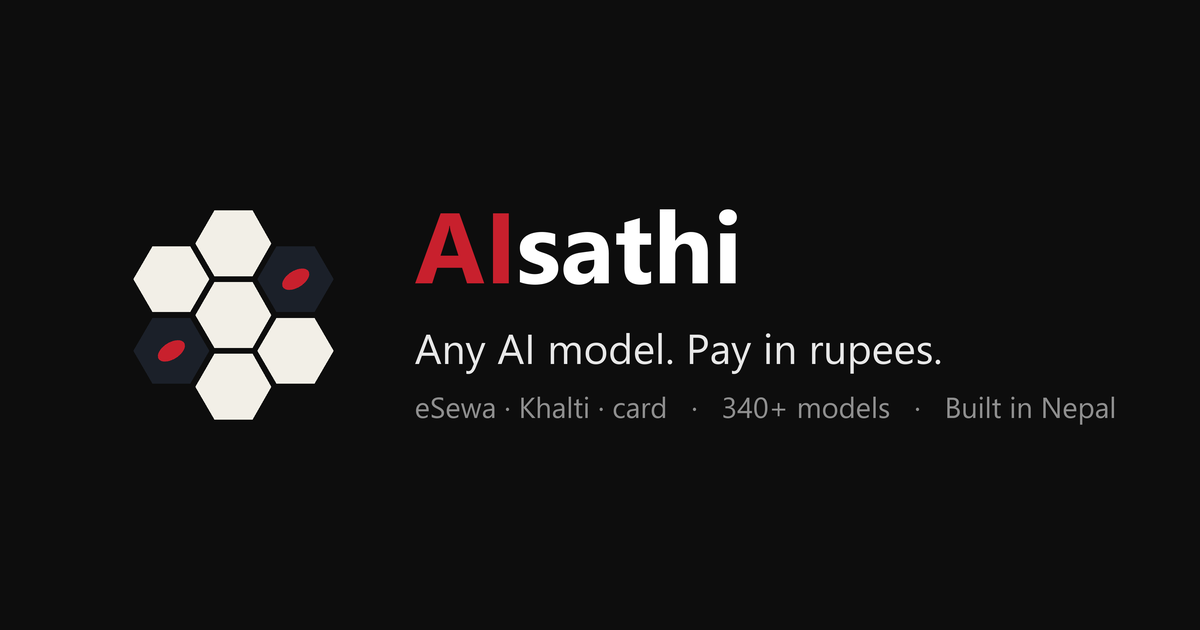
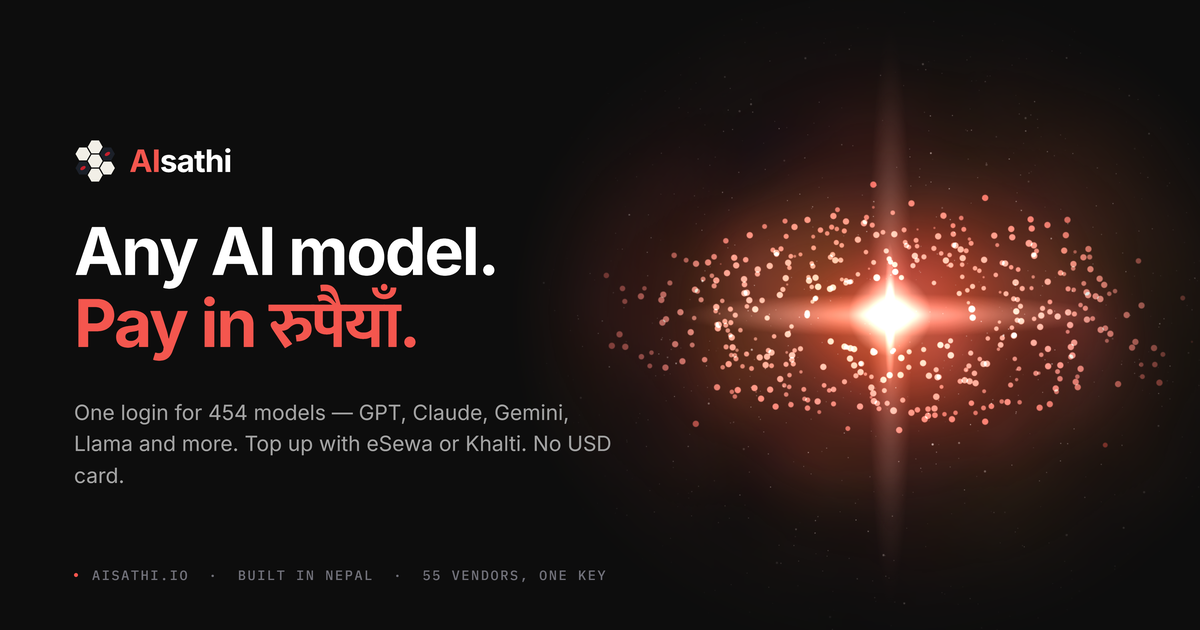
feat(brand): new share card, built from the catalogue
public/og.png was cut before the coral rebrand and before the galaxy — it
is what WhatsApp, Viber and Facebook show for every link anyone posts, and
for a first-time reader it is the whole first impression. It no longer
looked like the site it links to.

The replacement is built rather than drawn: the galaxy is the same
construction as HeroGalaxy, and all 454 stars are placed by a real price
from the catalogue snapshot. That is the only reason the card is allowed
to say "454 models" — the number and the picture come from one source.

Generator committed alongside it. A share card nobody can regenerate is a
card whose model count silently goes stale and cannot be corrected, so
scripts/og-card holds the renderer, the snapshot, and a README saying
plainly that the count is baked in and has to be refreshed.

The render is seeded, so one snapshot always produces the same image; a
card that reshuffles every build cannot be reviewed.

Kept full-colour at 281 KB rather than quantised to 110 KB — the glow
bands visibly at 256 colours, and dithering to hide it came out at 384 KB,
larger than the original. Nothing on the site loads this file; only link
scrapers do.

Higgsfield was the obvious tool and has 0 credits on a free plan, so this
is drawn from our own data instead — which is the better artwork anyway,
since it is a picture OF the product rather than a picture about it.

diff --git a/scripts/og-card/card.js b/scripts/og-card/card.js
@@ -1,0 +1,95 @@
+/* The share card's galaxy: the same construction as components/HeroGalaxy.tsx,
+   drawn once into a still. Seeded so the card is reproducible — a share image
+   that shuffles every time it is regenerated cannot be diffed or approved. */
+(function () {
+  var seed = 20260925;
+  function rnd() { seed = (seed * 1664525 + 1013904223) % 4294967296; return seed / 4294967296; }
+
+  var cv = document.getElementById('g'), ctx = cv.getContext('2d');
+  var W = cv.width, H = cv.height, CX = W / 2, CY = H / 2;
+  var HUES = [8, 352, 20, 340], COOL = [255, 233, 226], HOT = [244, 86, 78];
+  var D = Math.ceil(Math.hypot(W, H)), NX = CX - D / 2, NY = CY - D / 2;
+
+  function layer(w, h) { var c = document.createElement('canvas'); c.width = w; c.height = h; return c; }
+
+  var neb = layer(D, D), nx = neb.getContext('2d');
+  nx.globalCompositeOperation = 'lighter';
+  for (var arm = 0; arm < 3; arm++) {
+    var off = (arm / 3) * Math.PI * 2;
+    for (var i = 0; i < 46; i++) {
+      var a = off + i * 0.19 + rnd() * 0.06, r = 26 + i * (H / 68);
+      var px = D / 2 + Math.cos(a) * r * 1.62 + (rnd() - 0.5) * 42;
+      var py = D / 2 + Math.sin(a) * r * 0.74 + (rnd() - 0.5) * 24;
+      var rad = Math.max((H / 5.4) * (0.5 + rnd()) - i * 0.22, 8);
+      var hue = HUES[(arm + (i % 2)) % 4] + (rnd() * 18 - 9);
+      var al = 0.085 * (1 - i / 60) + 0.012;
+      var gr = nx.createRadialGradient(px, py, 0, px, py, rad);
+      gr.addColorStop(0, 'hsla(' + hue + ',88%,66%,' + al + ')');
+      gr.addColorStop(0.55, 'hsla(' + (hue + 12) + ',85%,52%,' + al * 0.45 + ')');
+      gr.addColorStop(1, 'hsla(' + hue + ',80%,40%,0)');
+      nx.fillStyle = gr; nx.beginPath(); nx.arc(px, py, rad, 0, 7); nx.fill();
+    }
+  }
+  var blur = layer(D, D), bx = blur.getContext('2d');
+  bx.filter = 'blur(16px)'; bx.drawImage(neb, 0, 0);
+
+  var fld = layer(W, H), fx = fld.getContext('2d');
+  fx.fillStyle = 'rgb(255,233,226)';
+  for (var k = 0; k < 1400; k++) {
+    var fxp = rnd() * W, fyp = rnd() * H;
+    var d = Math.hypot((fxp - CX) / (W * 0.5), (fyp - CY) / (H * 0.5));
+    if (rnd() < d * 0.45) continue;
+    fx.globalAlpha = 0.18 + rnd() * 0.75;
+    var fr = rnd() < 0.9 ? rnd() * 0.8 + 0.25 : rnd() * 1.5 + 0.7;
+    fx.beginPath(); fx.arc(fxp, fyp, fr, 0, 7); fx.fill();
+  }
+
+  // Real models, placed by real price — the same mapping the site uses.
+  var prices = DATA.m.map(function (m) { return m[2]; }).filter(function (v) { return v > 0; });
+  var lo = Math.log(Math.min.apply(null, prices)), hi = Math.log(Math.max.apply(null, prices));
+  var cl = Math.log(4096), ch = Math.log(2000000);
+  function norm(v, a, b) { return Math.max(0, Math.min(1, (Math.log(Math.max(v, 1)) - a) / (b - a))); }
+  var rMax = Math.min((W / 2) * 0.94 / 1.6, (H / 2) * 0.94 / 0.73);
+  var reach = Math.max(rMax - H * 0.07, H * 0.12);
+
+  ctx.clearRect(0, 0, W, H);
+  ctx.save(); ctx.globalCompositeOperation = 'lighter';
+  ctx.globalAlpha = 0.72; ctx.drawImage(blur, NX, NY); ctx.restore();
+  ctx.globalAlpha = 0.85; ctx.drawImage(fld, 0, 0); ctx.globalAlpha = 1;
+
+  ctx.save(); ctx.globalCompositeOperation = 'lighter';
+  DATA.m.forEach(function (m, i) {
+    var pn = m[2] > 0 ? norm(m[2], lo, hi) : 0.02;
+    var cn = m[3] > 0 ? norm(m[3], cl, ch) : 0.2;
+    var rr = H * 0.07 + pn * reach, ang = i * 2.399963;
+    var sx = CX + Math.cos(ang) * rr * 1.6, sy = CY + Math.sin(ang) * rr * 0.73;
+    ctx.fillStyle = 'rgb(' + Math.round(COOL[0] + (HOT[0] - COOL[0]) * pn) + ',' +
+      Math.round(COOL[1] + (HOT[1] - COOL[1]) * pn) + ',' +
+      Math.round(COOL[2] + (HOT[2] - COOL[2]) * pn) + ')';
+    ctx.globalAlpha = 0.3 + 0.5 * cn;
+    ctx.beginPath(); ctx.arc(sx, sy, (0.8 + cn * 2.6) * 2, 0, 7); ctx.fill();
+  });
+  ctx.restore();
+
+  ctx.save(); ctx.globalCompositeOperation = 'lighter';
+  var beam = H * 0.42;
+  ctx.save(); ctx.translate(CX, CY); ctx.scale(0.075, 1);
+  var g1 = ctx.createRadialGradient(0, 0, 0, 0, 0, beam);
+  g1.addColorStop(0, 'rgba(255,255,255,0.8)');
+  g1.addColorStop(0.25, 'rgba(255,214,204,0.2)');
+  g1.addColorStop(1, 'rgba(255,150,132,0)');
+  ctx.fillStyle = g1; ctx.beginPath(); ctx.arc(0, 0, beam, 0, 7); ctx.fill(); ctx.restore();
+  ctx.save(); ctx.translate(CX, CY); ctx.scale(1, 0.1);
+  var g2 = ctx.createRadialGradient(0, 0, 0, 0, 0, beam * 0.74);
+  g2.addColorStop(0, 'rgba(255,255,255,0.5)');
+  g2.addColorStop(1, 'rgba(255,160,140,0)');
+  ctx.fillStyle = g2; ctx.beginPath(); ctx.arc(0, 0, beam * 0.74, 0, 7); ctx.fill(); ctx.restore();
+  var g3 = ctx.createRadialGradient(CX, CY, 0, CX, CY, H * 0.06);
+  g3.addColorStop(0, '#ffffff');
+  g3.addColorStop(0.35, 'rgba(255,246,244,0.55)');
+  g3.addColorStop(1, 'rgba(255,246,244,0)');
+  ctx.fillStyle = g3; ctx.beginPath(); ctx.arc(CX, CY, H * 0.06, 0, 7); ctx.fill();
+  ctx.restore();
+
+  document.documentElement.dataset.painted = '1';
+})();

diff --git a/scripts/og-card/build.py b/scripts/og-card/build.py
@@ -1,0 +1,61 @@
+# -*- coding: utf-8 -*-
+"""Assemble the share card from the catalogue snapshot + the mark."""
+import io, os
+
+HERE = os.path.dirname(os.path.abspath(__file__))
+REPO = os.path.abspath(os.path.join(HERE, "..", ".."))
+
+data = io.open(os.path.join(HERE, "catalogue.json"), encoding="utf-8").read()
+mark = io.open(os.path.join(REPO, "public", "mark.svg"), encoding="utf-8").read()
+card = io.open(os.path.join(HERE, "card.js"), encoding="utf-8").read()
+
+HTML = u"""<!doctype html><meta charset="utf-8">
+<link rel="stylesheet" href="https://fonts.googleapis.com/css2?family=Inter:wght@400;500;600;700&family=Mukta:wght@600;700&family=IBM+Plex+Mono:wght@500&display=swap">
+<style>
+  *{margin:0;padding:0;box-sizing:border-box}
+  html,body{width:1200px;height:630px;overflow:hidden;background:#0d0d0d}
+  .card{position:relative;width:1200px;height:630px;background:#0d0d0d;
+        font-family:Inter,system-ui,sans-serif;color:#fff;overflow:hidden}
+  /* The galaxy bleeds off the right edge and dissolves, exactly as on the
+     site — no panel, no border, so the card reads as one surface. */
+  canvas{position:absolute;right:-70px;top:-30px;width:760px;height:690px;
+    -webkit-mask-image:radial-gradient(ellipse 50% 50% at 50% 50%,#000 0%,#000 46%,rgba(0,0,0,.5) 74%,transparent 100%);
+            mask-image:radial-gradient(ellipse 50% 50% at 50% 50%,#000 0%,#000 46%,rgba(0,0,0,.5) 74%,transparent 100%)}
+  .left{position:absolute;left:74px;top:0;height:630px;width:620px;
+        display:flex;flex-direction:column;justify-content:center;gap:0}
+  .lock{display:flex;align-items:center;gap:13px;margin-bottom:34px}
+  .lock svg{height:44px;width:auto;display:block}
+  .wm{font-size:31px;font-weight:700;letter-spacing:-.02em}
+  .wm b{color:#f4564e;font-weight:700}
+  h1{font-size:66px;font-weight:700;letter-spacing:-.03em;line-height:1.04}
+  h1 .np{font-family:Mukta,Inter,sans-serif;font-weight:700;line-height:1.3}
+  h1 .coral{color:#f4564e}
+  .sub{margin-top:26px;font-size:21px;line-height:1.5;color:#a3a3a3;max-width:540px}
+  .strip{position:absolute;left:74px;bottom:46px;display:flex;align-items:center;gap:14px;
+         font-family:"IBM Plex Mono",monospace;font-size:13.5px;letter-spacing:.12em;
+         text-transform:uppercase;color:#71717a}
+  .dot{width:4px;height:4px;border-radius:50%;background:#f4564e;flex:none}
+</style>
+<div class="card">
+  <canvas id="g" width="1520" height="1380"></canvas>
+  <div class="left">
+    <div class="lock">__MARK__<span class="wm"><b>AI</b>sathi</span></div>
+    <h1>Any AI model.<br><span class="coral">Pay in <span class="np">&#2352;&#2369;&#2346;&#2376;&#2351;&#2366;&#2305;</span>.</span></h1>
+    <p class="sub">One login for 454 models &mdash; GPT, Claude, Gemini, Llama and more.
+      Top up with eSewa or Khalti. No USD card.</p>
+  </div>
+  <div class="strip"><span class="dot"></span>aisathi.io &nbsp;&middot;&nbsp; built in Nepal &nbsp;&middot;&nbsp; 55 vendors, one key</div>
+</div>
+<script>const DATA = __DATA__;</script>
+<script>__CARD__</script>
+"""
+
+# The mark is white-on-dark artwork already; only its box needs constraining.
+mark = mark.replace('width="522" height="542"', 'height="44"')
+
+out = (HTML.replace("__MARK__", mark)
+           .replace("__DATA__", data)
+           .replace("__CARD__", card))
+path = os.path.join(HERE, "card.html")
+io.open(path, "w", encoding="utf-8").write(out)
+print("card.html", round(os.path.getsize(path) / 1024, 1), "KB")

diff --git a/scripts/og-card/README.md b/scripts/og-card/README.md
@@ -1,0 +1,26 @@
+# Share card
+
+Regenerates `public/og.png` — the image WhatsApp, Viber, Facebook and X show
+when someone posts a link to us. For anyone who has never heard of AIsathi it
+is the entire first impression, so it is worth keeping honest.
+
+It is built, not painted. The galaxy is the same construction as
+`components/HeroGalaxy.tsx`, with every star placed by a real model's price
+from `catalogue.json` — which is why the card can quote a model count at all.
+
+```bash
+python scripts/og-card/build.py      # -> scripts/og-card/card.html
+node scripts/og-card/shoot.mjs scripts/og-card/card.html /tmp/og-2x.png 1200 630
+# then downsample to 1200x630 with LANCZOS and save over public/og.png
+```
+
+**When the catalogue grows, the card starts lying.** The counts are written into
+`build.py` and `catalogue.json` is a snapshot, not a live read. Refresh it from
+`/api/v1/models` and re-run before quoting a new number anywhere else.
+
+The render is seeded in `card.js`, so one snapshot always gives the same image.
+A share card that reshuffles on every build cannot be reviewed or diffed.
+
+Kept as a full-colour PNG at ~280 KB rather than quantised to ~110 KB: the glow
+bands visibly at 256 colours, and dithering to hide that costs more bytes than
+the colours save. Nothing on the site loads this file — only link scrapers do.
